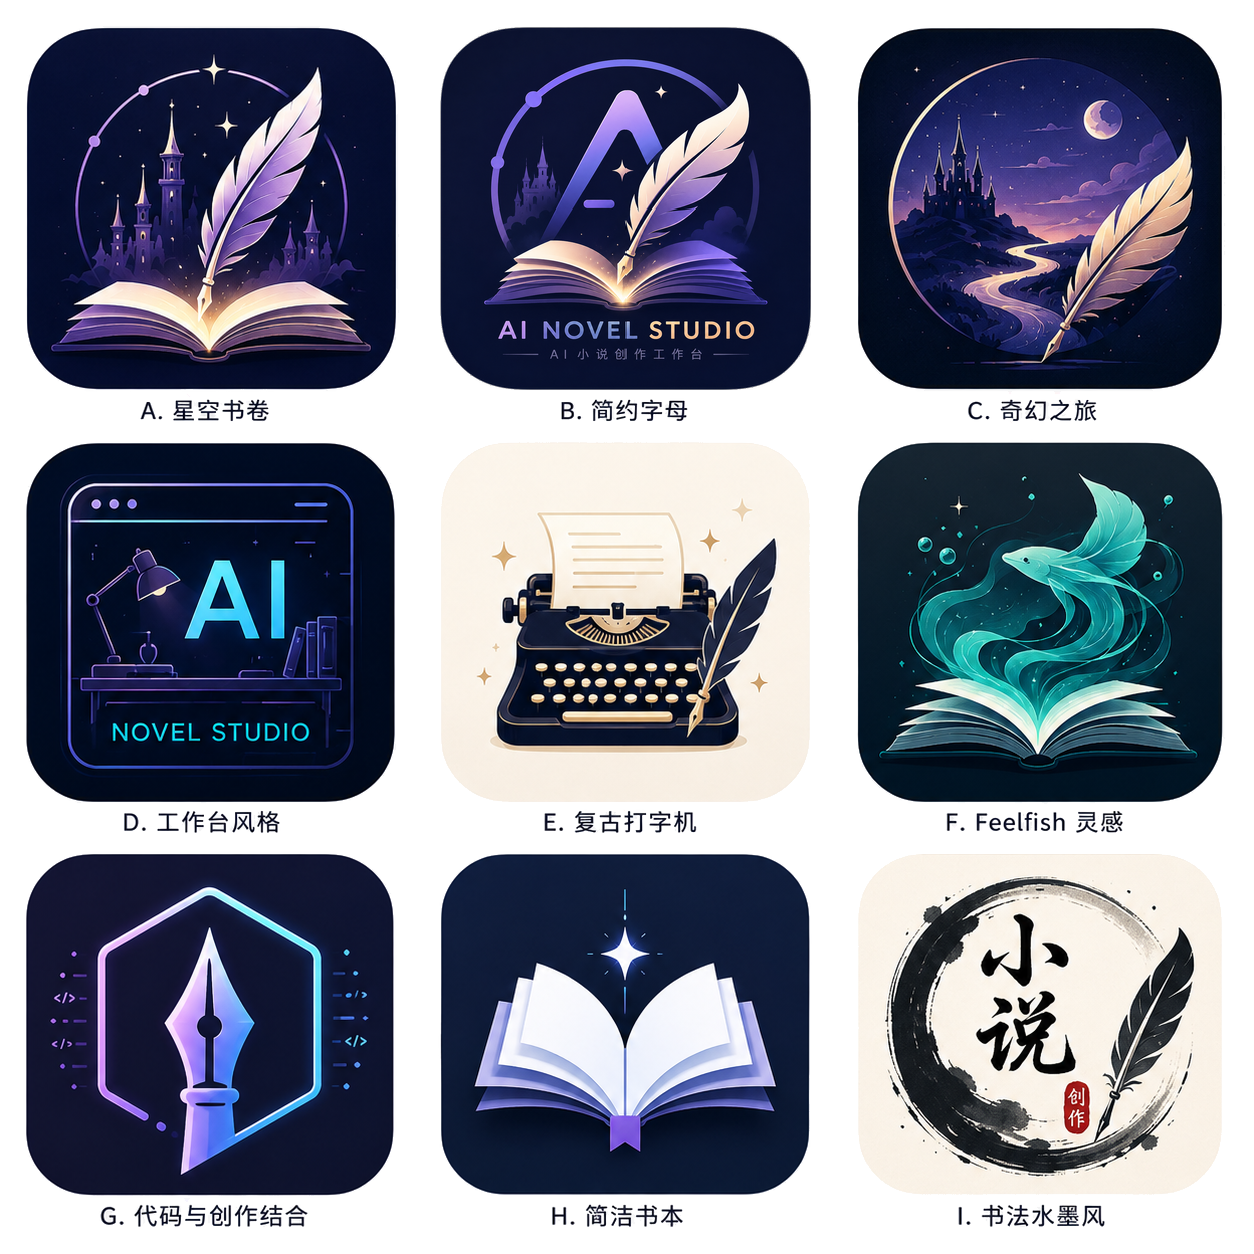
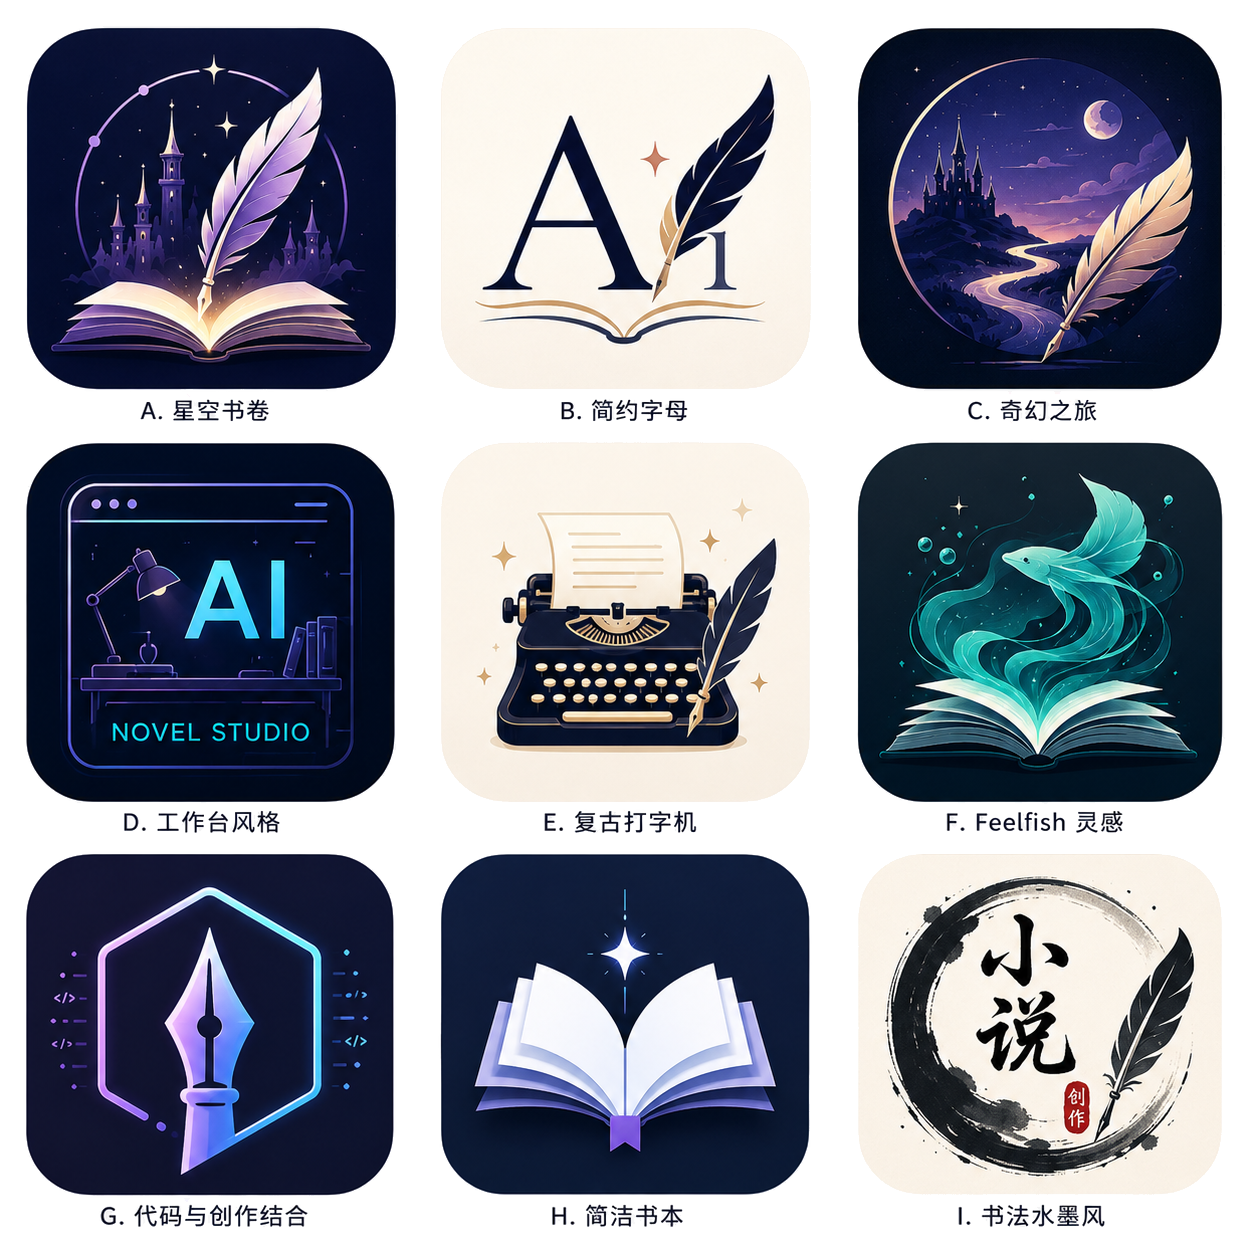
feat: 应用图标换用「简约字母」设计（第3张图B变体）并重建安装包
- resources/icon-512.png、icon-256.png、site/icon-512.png 由 B 瓦片（去白透明，构图对齐原比例 55,55/402²）生成，安装包/任务栏/窗口/介绍站同步更新
- 图标候选素材修正：variants-B 与 sheet-variants 恢复原「简约字母」设计（B 即使用中的图标，不再贴终稿 logo）；logo 终稿独立保留
- scripts/icon-candidates.mjs 更新（B 瓦片 → 应用图标生成）
- docs/CHANGELOG.md 记录图标变更
- release 已重建：AI-Novel-Studio-Setup-0.25.0.exe / portable（19:38，验证嵌入图标为新增设计）

Changed region(s): [[0.3421, 0.0, 0.6531, 0.311]]

diff --git a/docs/CHANGELOG.md b/docs/CHANGELOG.md
@@ -2,7 +2,9 @@
 
 ## [Unreleased]
 
-（暂无）
+### 图标换用「简约字母」设计（B 变体）
+- 应用图标替换为第 3 张候选图 B 槽「简约字母」设计（米色瓦片 + 衬线 A + 羽笔 + I + 星光），覆盖安装包/任务栏/窗口与介绍站（resources/icon-512.png、icon-256.png、site/icon-512.png）
+- 图标候选素材入库 resources/icon-candidates/（两组九宫各拆 9 张去白透明化 + AI NOVEL STUDIO 终稿 + 透明总览图 + 原始素材归档），SCRIPT 见 scripts/icon-candidates.mjs
 
 ## v0.25.0（2026-08-29）
 
